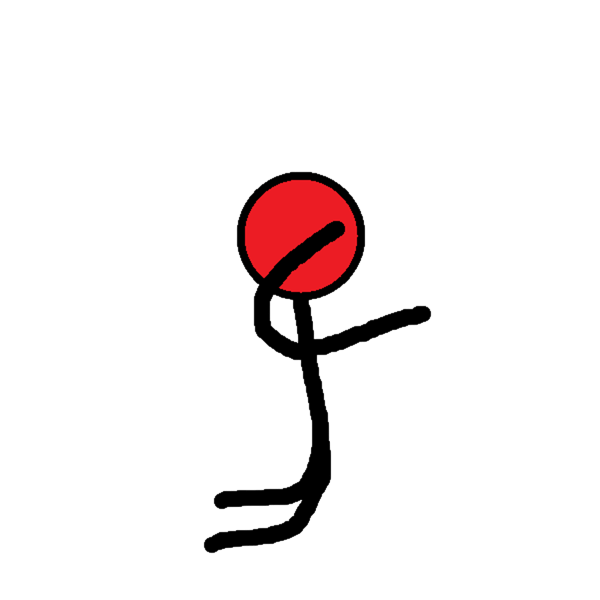
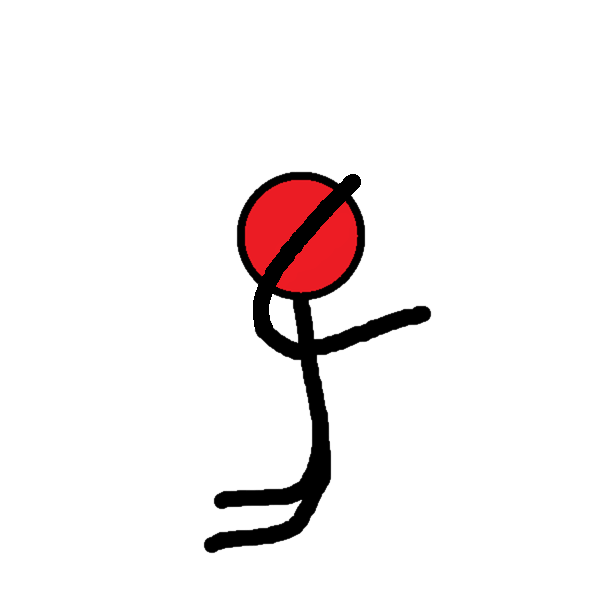
fix: 🐛 attack image, dive hitbox

Changed region(s): [[0.42, 0.27, 0.6, 0.54]]

diff --git a/model/DiveController.java b/model/DiveController.java
@@ -2,10 +2,10 @@ package model;
 
 public class DiveController {
     private static final int TOTAL_FRAMES = 60;
-    private static final double HITBOX_WIDTH = 96;
-    private static final double HITBOX_HEIGHT = 16;
+    private static final double HITBOX_WIDTH = 80;
+    private static final double HITBOX_HEIGHT = 5;
     private static final double HITBOX_OFFSET_Y = GameConfig.PLAYER_IMAGE_HEIGHT - HITBOX_HEIGHT - 2;
-    private static final double HITBOX_FORWARD_OFFSET_X = 6;
+    private static final double HITBOX_FORWARD_OFFSET_X = 20;
 
     private final Player player;
 
@@ -97,8 +97,8 @@ public class DiveController {
                 HITBOX_OFFSET_Y,
                 HITBOX_WIDTH,
                 HITBOX_HEIGHT,
-                0,
-                0,
+                5,
+                5,
                 0
         );
     }